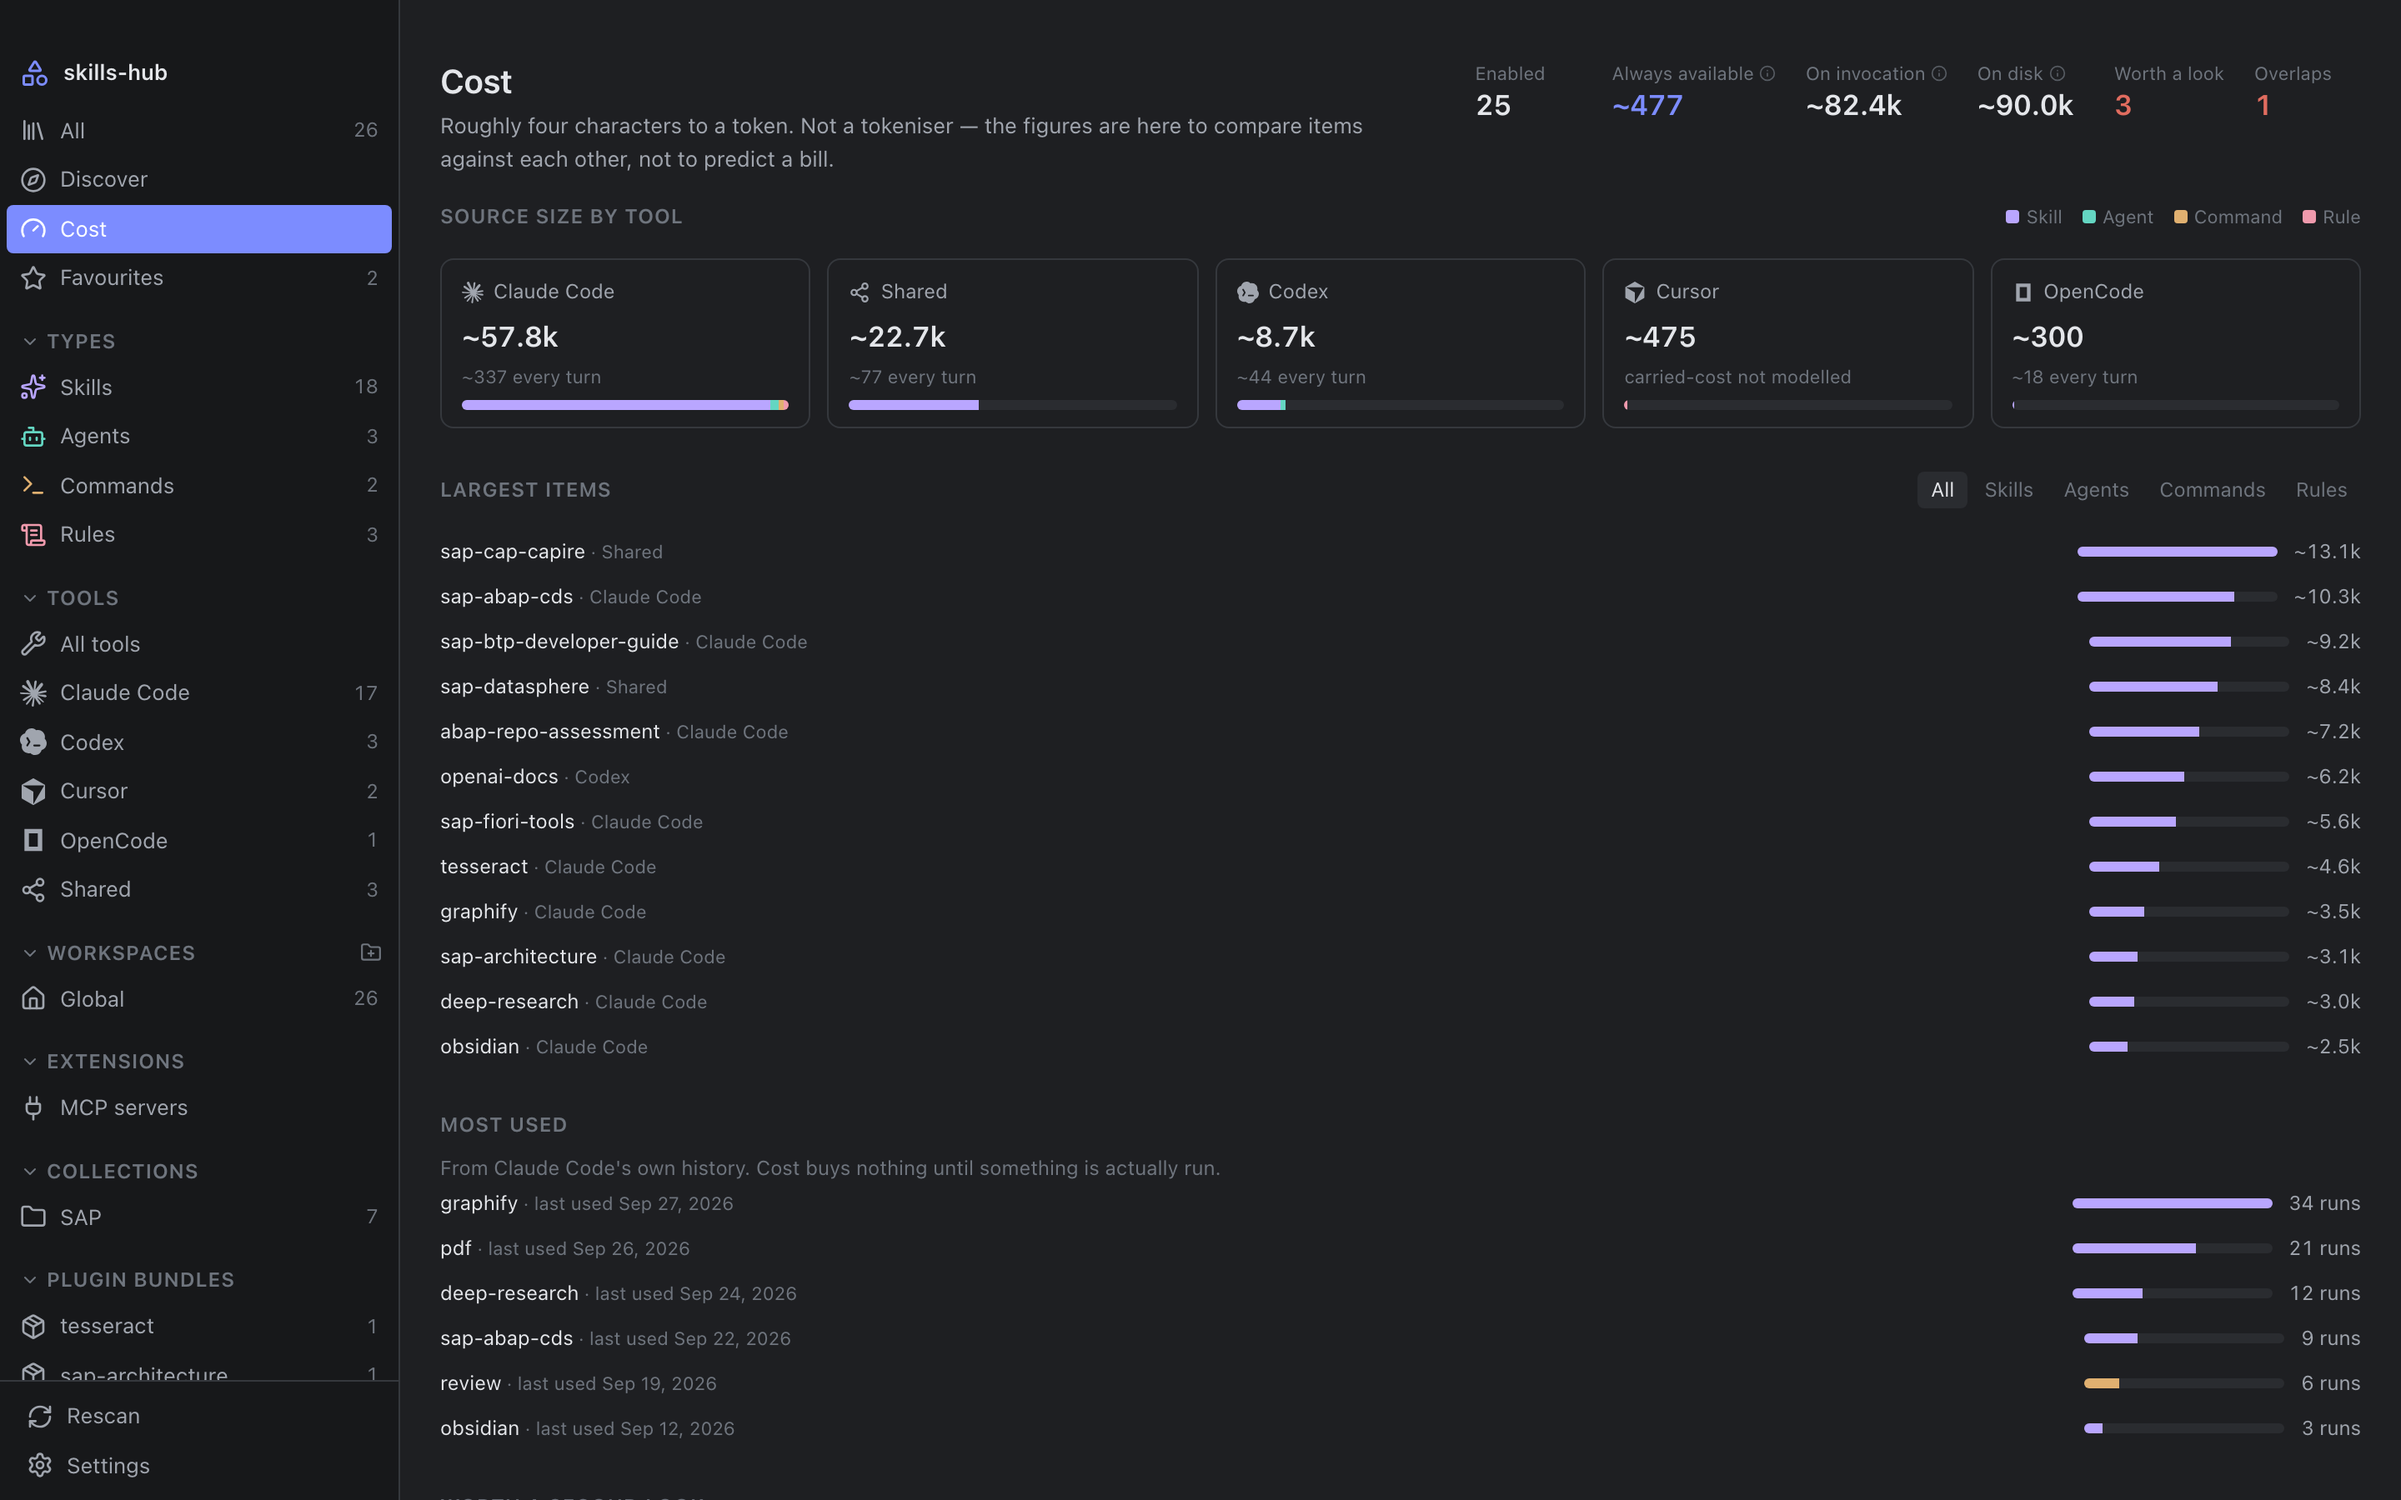
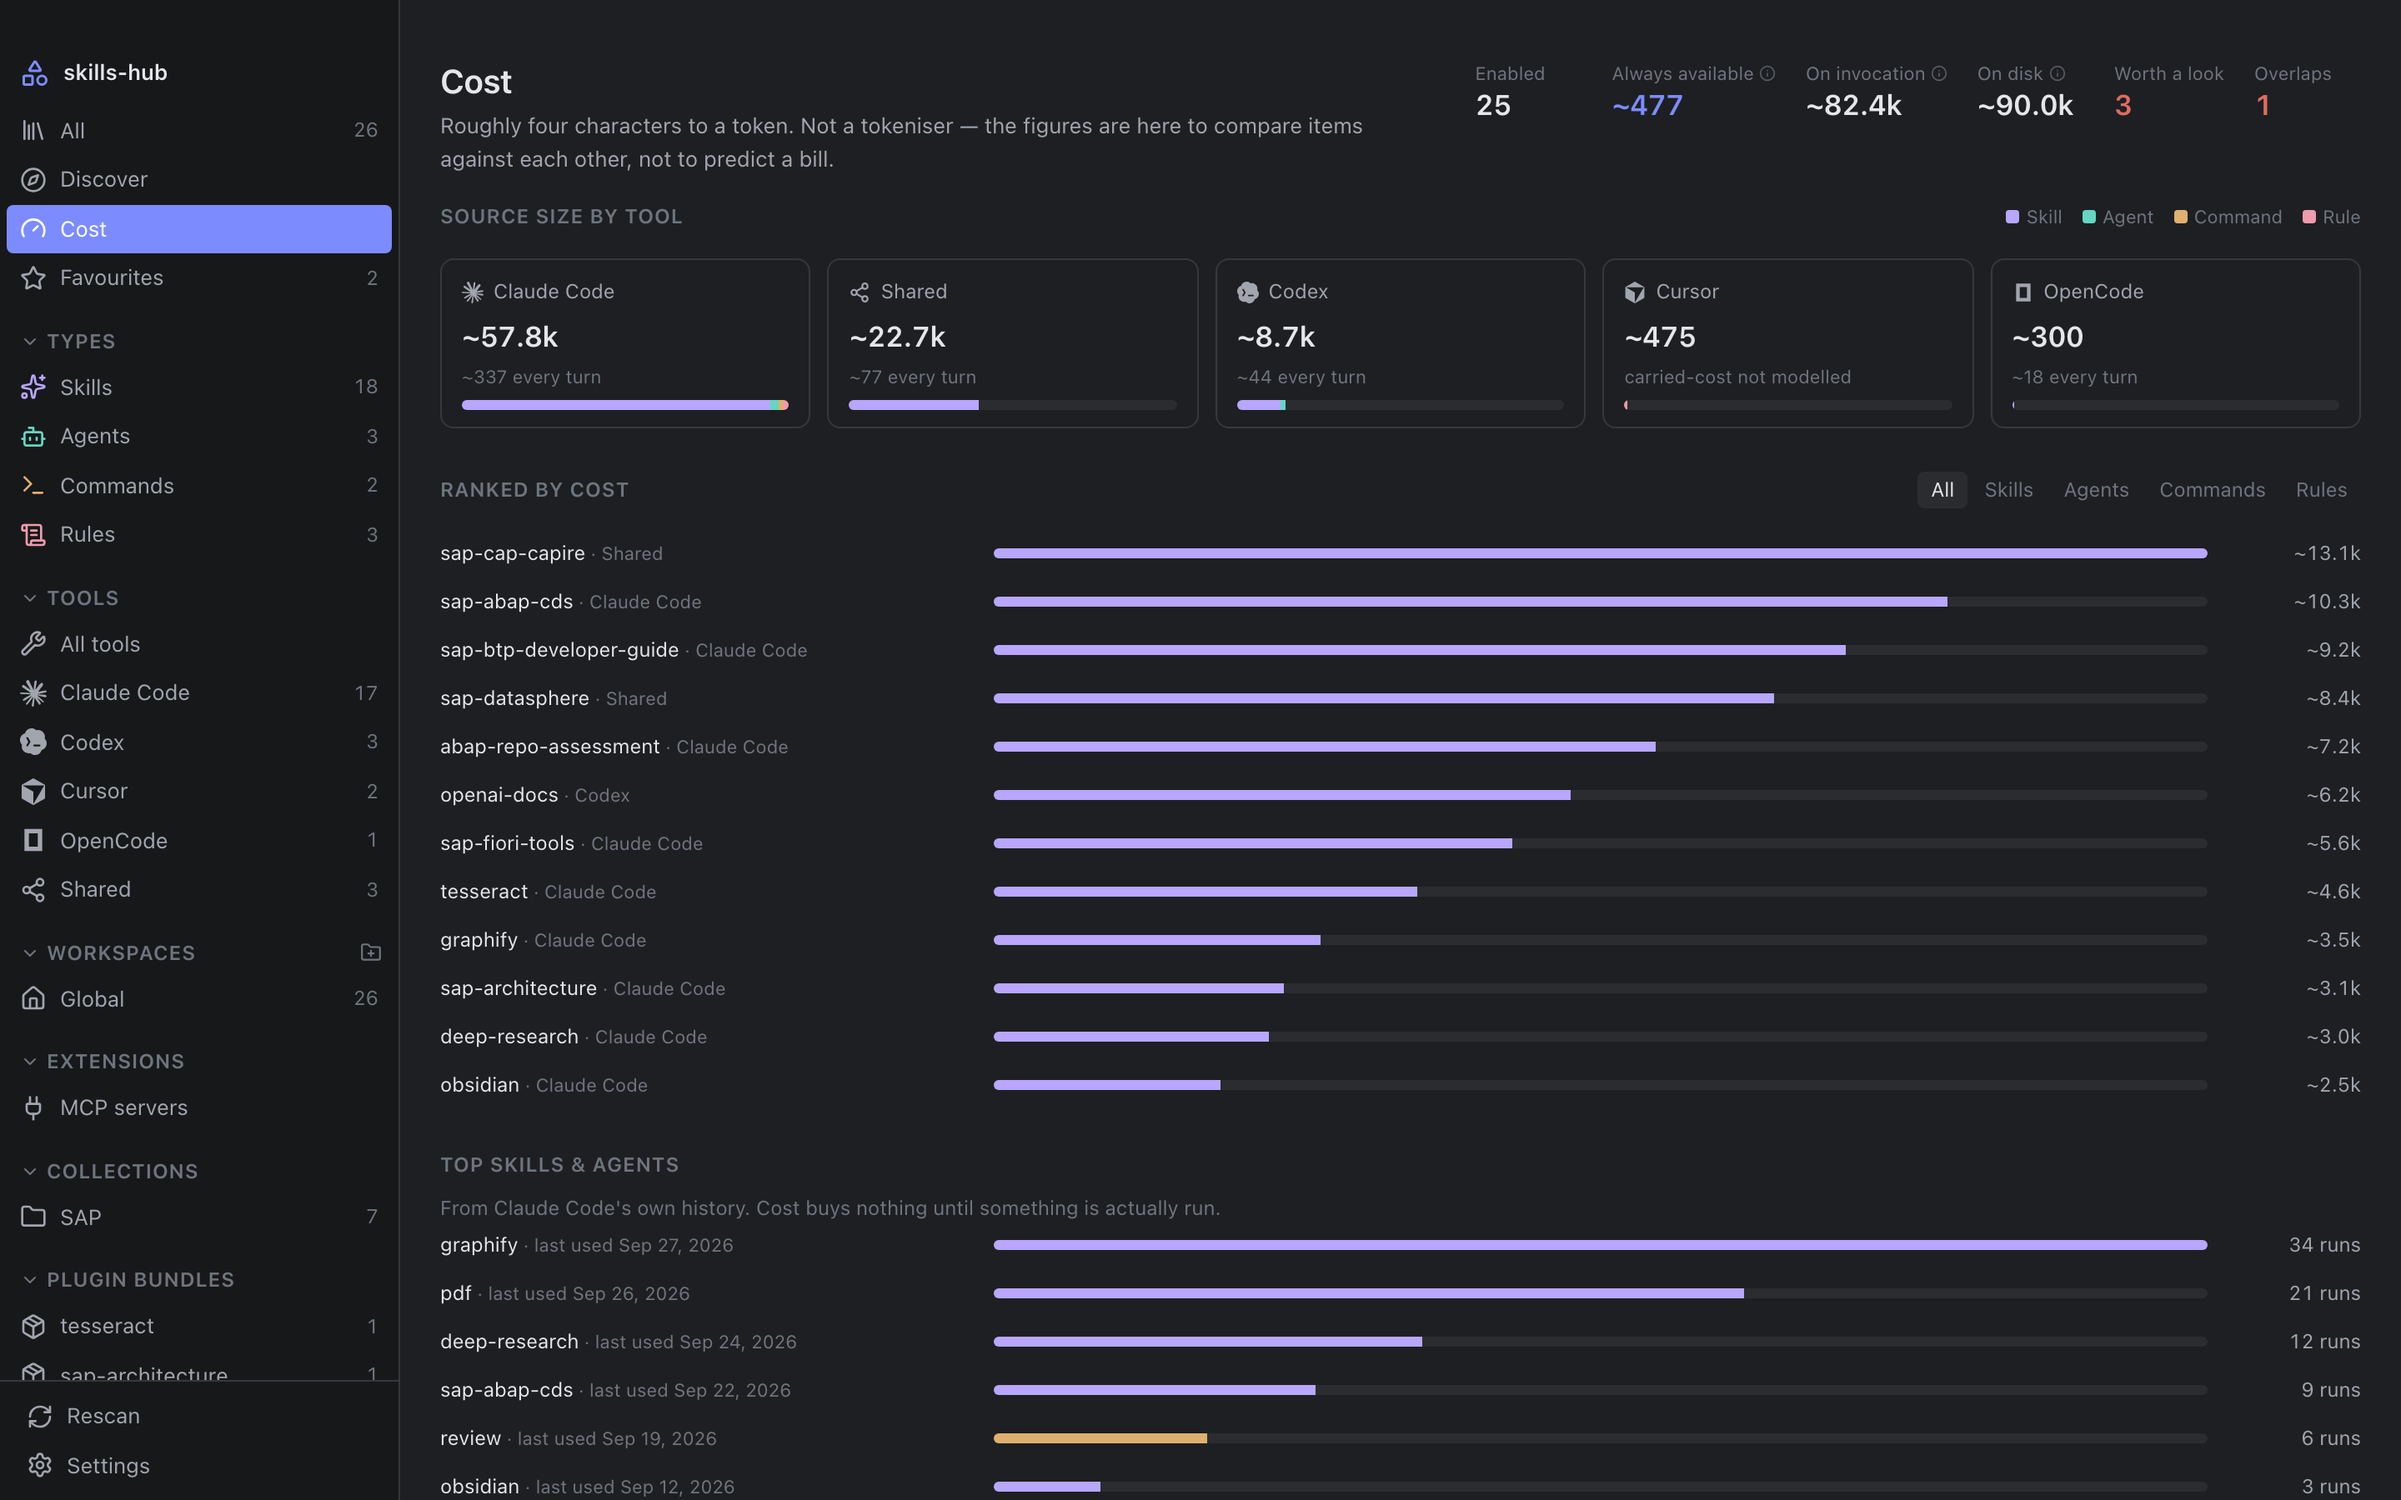
fix(ui): give the cost bars the width, and one starting line
The bar rows put the name in the flexible column and left the track a
120px strip at the edge, so the thing carrying the comparison was the
smallest part of the row. The track is the flexible column now.

Each row is its own grid, so the `auto` value column was measured per
row: "9 runs" and "34 runs" are different widths, and every bar ended
somewhere slightly different. Both side columns are sized, and the
value is right-aligned.

"Largest items" and "Most used" say what they rank: "Ranked by cost"
and "Top skills & agents".

Changed region(s): [[0.1875, 0.3111, 0.9688, 0.9956], [0.4062, 0.3422, 0.875, 0.7467], [0.875, 0.3422, 0.9688, 0.6533]]

diff --git a/src/components/dashboard/DashboardPane.tsx b/src/components/dashboard/DashboardPane.tsx
@@ -269,7 +269,7 @@ export function DashboardPane() {
         <section className={paneStyles.section} style={{ maxWidth: "none" }}>
           <div className={styles.sectionHead}>
             <h2 className={paneStyles.sectionTitle}>
-              Largest items
+              Ranked by cost
               {tool && ` · ${TOOL_META[tool]?.label ?? tool}`}
             </h2>
             <div className={styles.tabs}>
@@ -326,7 +326,7 @@ export function DashboardPane() {
 
         {topUsed.length > 0 && (
           <section className={paneStyles.section} style={{ maxWidth: "none" }}>
-            <h2 className={paneStyles.sectionTitle}>Most used</h2>
+            <h2 className={paneStyles.sectionTitle}>Top skills &amp; agents</h2>
             <p className={paneStyles.fieldHint}>
               From {TOOL_META[usageTool ?? ""]?.label ?? usageTool}'s own history. Cost buys nothing
               until something is actually run.

diff --git a/src/components/dashboard/Dashboard.module.css b/src/components/dashboard/Dashboard.module.css
@@ -205,12 +205,16 @@
   gap: 3px;
 }
 
+/* The track is the wide column, so a bar reads as a bar rather than as a
+   gauge tucked against the edge. Both side columns are sized rather than
+   `auto`: every row is its own grid, so an `auto` column is measured per row
+   and a two-digit figure would start the bars a few pixels off the rest. */
 .bar {
   display: grid;
-  grid-template-columns: 1fr 120px auto;
+  grid-template-columns: min(20rem, 28%) minmax(0, 1fr) 5rem;
   align-items: center;
-  gap: 10px;
-  padding: 3px 0;
+  gap: 12px;
+  padding: 4px 0;
   font-size: var(--font-ui-smaller);
   background: none;
   border: 0;
@@ -256,6 +260,7 @@
   color: var(--text-muted);
   font-variant-numeric: tabular-nums;
   white-space: nowrap;
+  text-align: right;
 }
 
 .toolbar {

diff --git a/src/demo/fixtures.ts b/src/demo/fixtures.ts
@@ -509,7 +509,7 @@ export const USAGE: Record<string, UsageStats> = Object.fromEntries(
 );
 
 export const DASHBOARD: DashboardReport = {
-  // Sorted the way the Rust report sorts it, so "Largest items" is one.
+  // Sorted the way the Rust report sorts it, so "Ranked by cost" is one.
   costs: ITEMS.filter((item) => item.enabled)
     .map((item, index) => {
       const chars = SEEDS[index]?.chars ?? 4_000;
